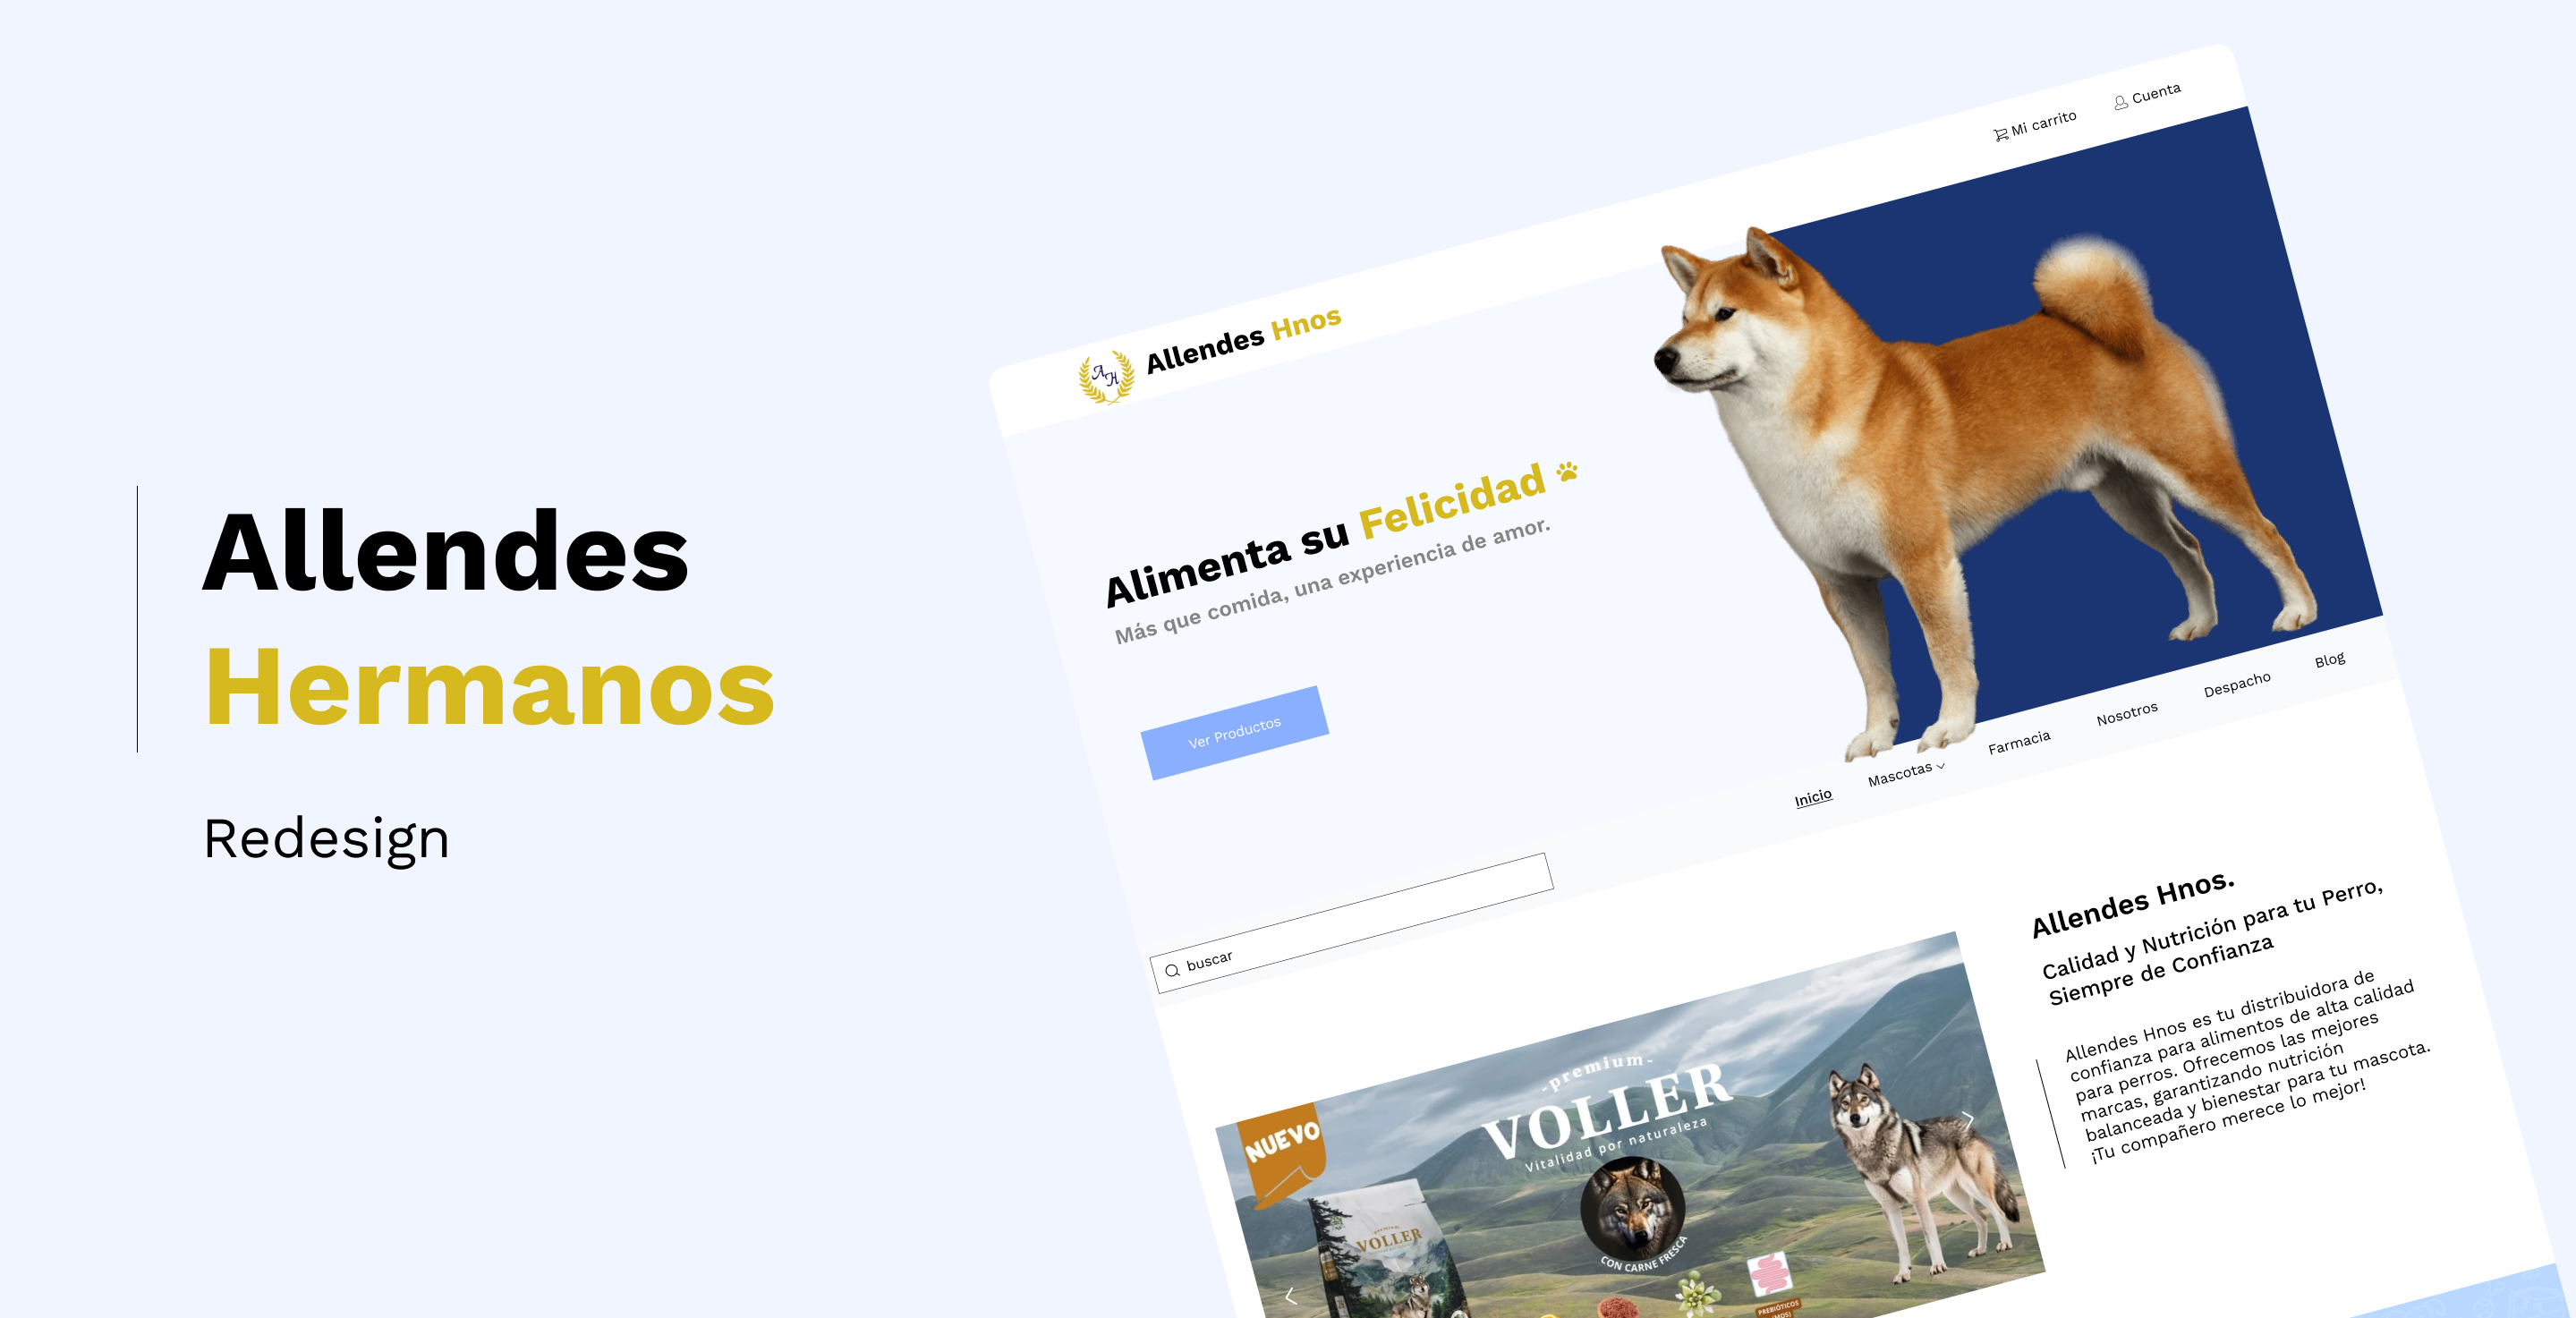
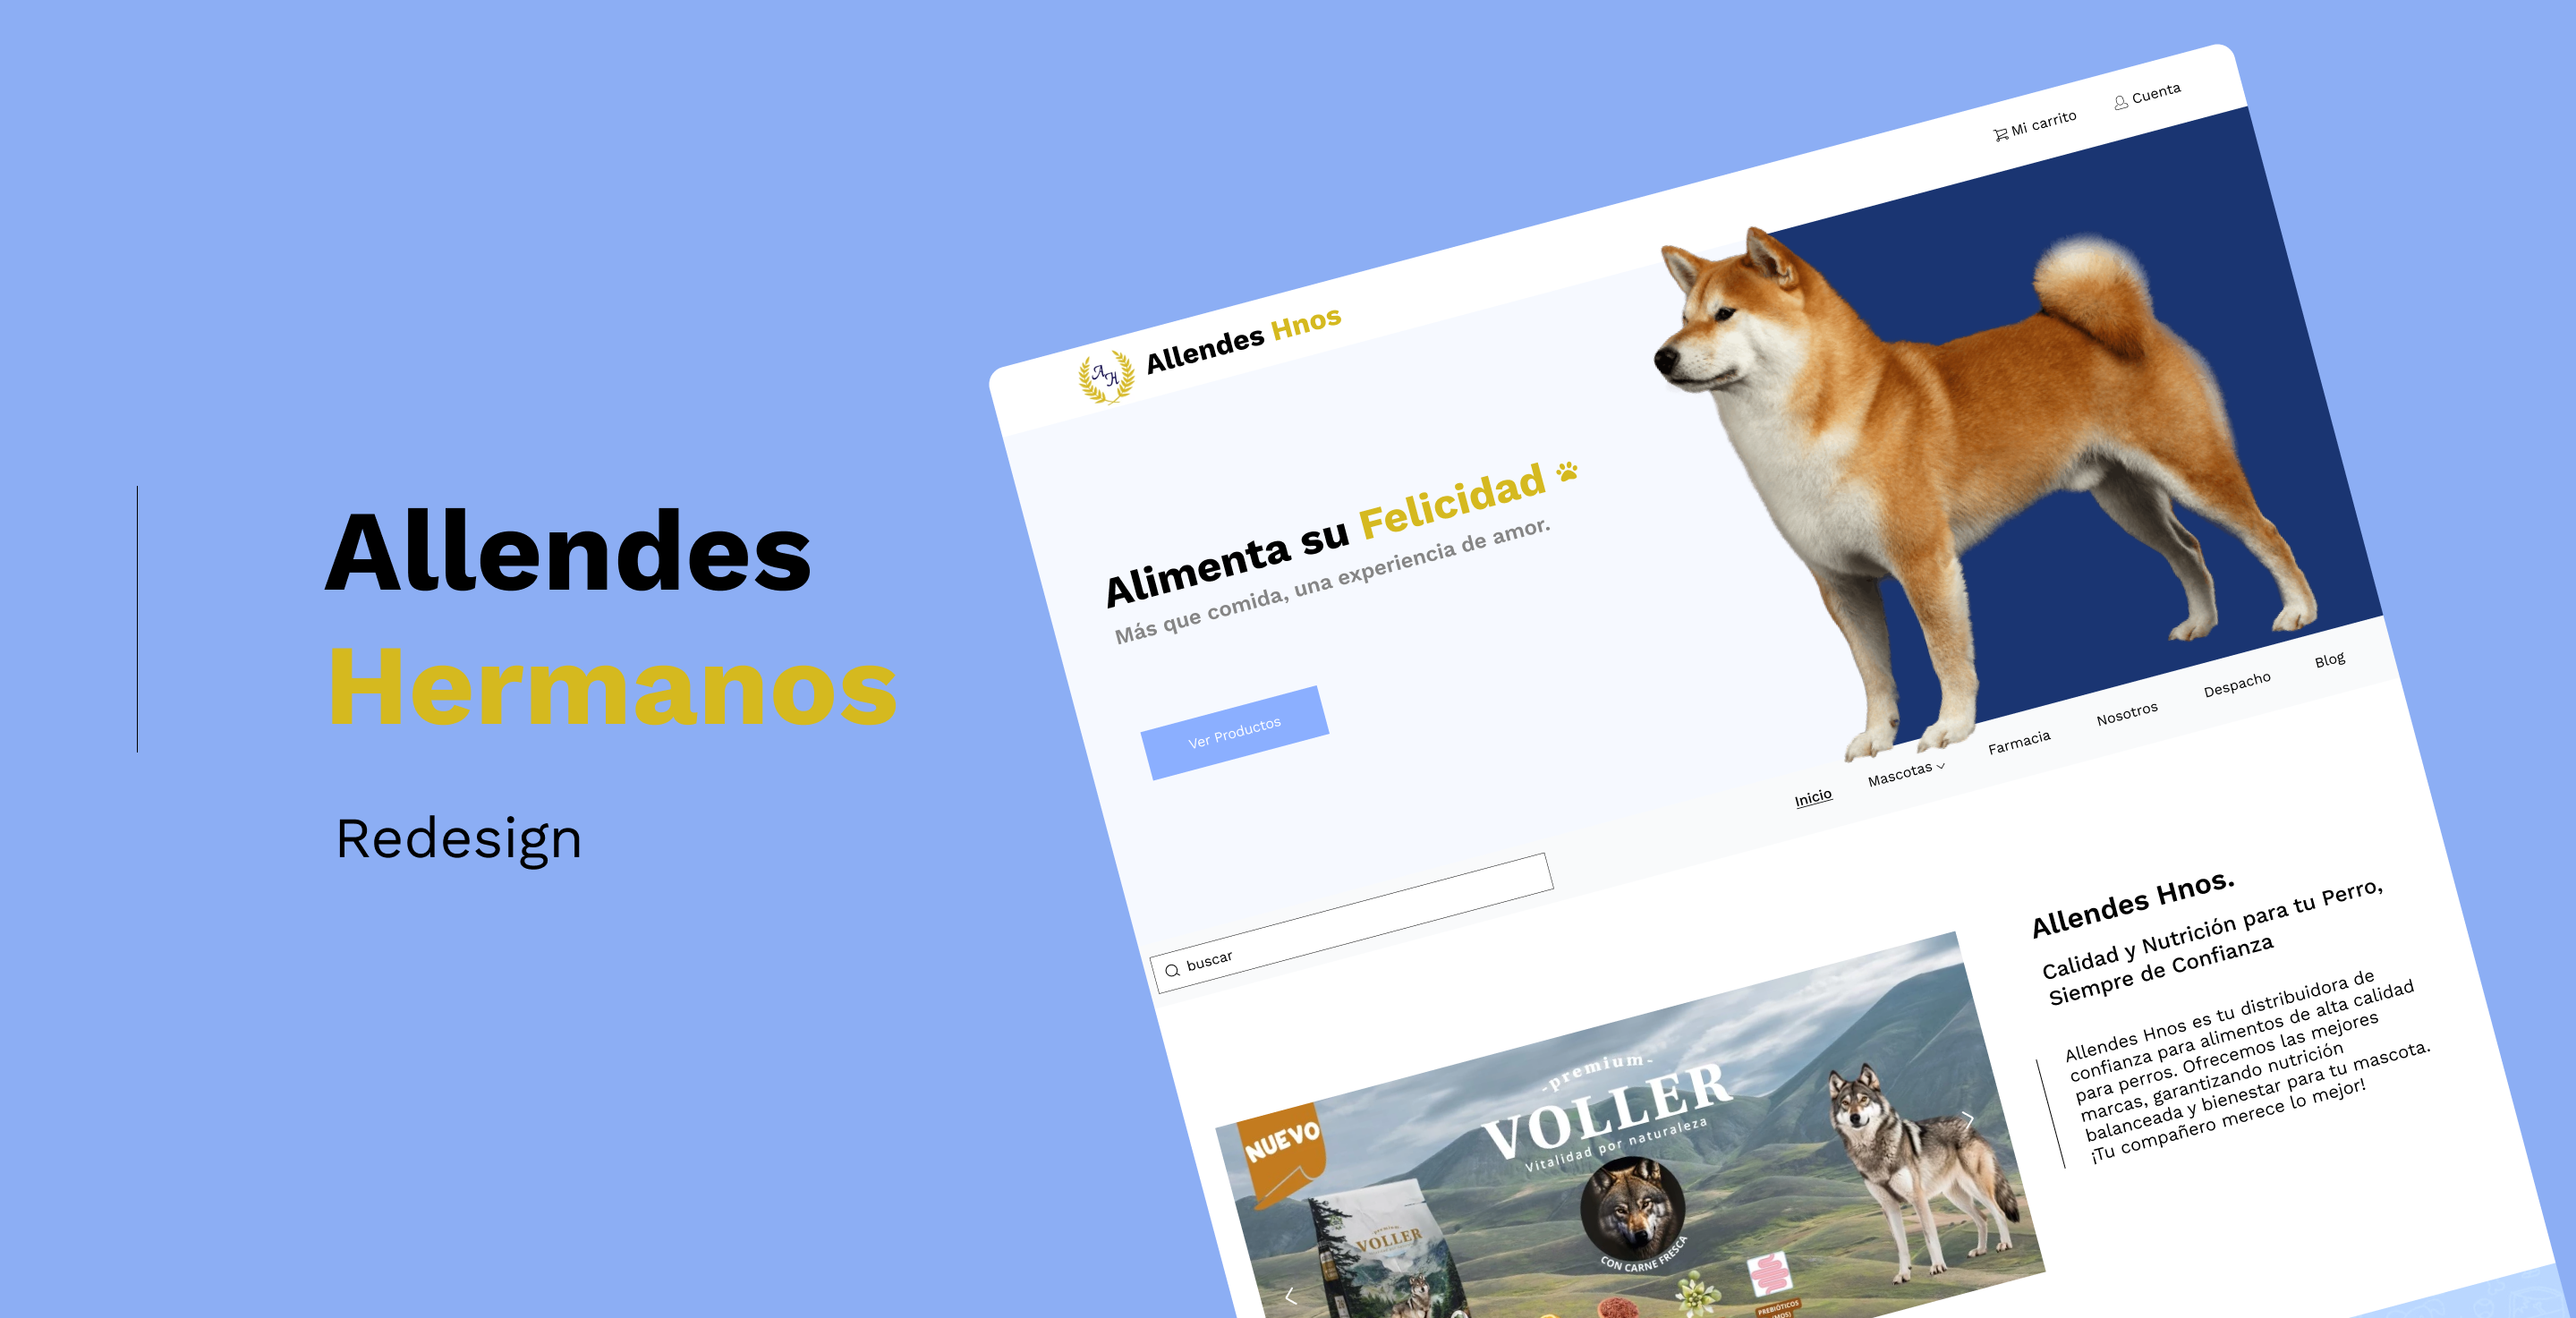
servicios, tarjetas

diff --git a/assets/scss/style.scss b/assets/scss/style.scss
@@ -717,31 +717,87 @@ blockquote {
 }
 
 // *** beneficios / paso a paso ***//
-.pasos-grid {
-    min-height: 300px;
+.pasos-track {
+    display: flex;
+    gap: 18px;
+    min-height: 360px;
 }
 
 .paso-card {
-    aspect-ratio: 4 / 5;
+    flex: 1;
+    cursor: pointer;
+    position: relative;
+    overflow: hidden;
+    border-radius: 3px;
     background: var(--fondo-secundario);
-}
+    display: flex;
+    flex-direction: column;
+    justify-content: center;
+    align-items: center;
+    padding: 32px 24px;
+    transition: flex 0.4s ease-in-out;
 
-// *** testimonios (tarjeta giga) ***//
-.giga-grid {
-    display: block;
-}
+    // estado expandido
+    &.active {
+        flex: 2.4;
+        align-items: flex-start;
+        justify-content: center;
 
-.giga-card {
-    width: 100%;
+        .paso-card-number {
+            display: none;
+        }
 
-    .project-media {
-        aspect-ratio: 21 / 9;
+        .paso-card-content {
+            text-align: left;
+        }
+
+        .paso-card-title,
+        .paso-card-desc {
+            display: block;
+        }
     }
 }
 
+.paso-card-content {
+    width: 100%;
+    text-align: center;
+}
+
+.paso-card-number {
+    font-family: var(--font-titulo);
+    font-weight: 300;
+    font-size: 54px;
+    line-height: 1;
+    color: var(--texto-tarjetas);
+}
+
+.paso-card-title,
+.paso-card-desc {
+    display: none;
+}
+
+.paso-card-title {
+    font-family: var(--font-titulo);
+    font-weight: 500;
+    font-size: 24px;
+    color: var(--texto-tarjetas);
+    margin: 0 0 36px;
+    letter-spacing: 3%;
+    text-align: center;
+}
+
+.paso-card-desc {
+    font-family: var(--font-texto);
+    font-size: 18px;
+    line-height: 1.6;
+    color: var(--texto-tarjetas);
+    margin: 0;
+    text-align: center;
+}
+
+
 // ***************************** BITÁCORA ************************* //
 
-// *** header de bitácora ***//
 .bitacora-header {
     h1 {
         font-size: 48px;
@@ -1239,4 +1295,54 @@ footer {
             grid-row: 3;
         }
     }
+    // *** servicios mobile *** //
+    .pasos-track {
+    flex-direction: column;
+    min-height: auto;
+    gap: 9px;
+
+    .paso-card {
+        flex: none !important;
+        width: 100%;
+        min-height: 120px;
+        padding: 36px 24px;
+        overflow: hidden;
+        transition: min-height .45s ease;
+
+        .paso-card-content {
+            text-align: center;
+        }
+
+        .paso-card-number {
+            display: block;
+        }
+
+        .paso-card-title,
+        .paso-card-desc {
+            opacity: 0;
+            max-height: 0;
+            overflow: hidden;
+            transform: translateY(12px);
+            transition:
+                opacity .35s ease,
+                transform .35s ease,
+                max-height .45s ease;
+        }
+
+        &.active {
+            min-height: 220px;
+
+            .paso-card-number {
+                display: none;
+            }
+
+            .paso-card-title,
+            .paso-card-desc {
+                opacity: 1;
+                max-height: 300px;
+                transform: translateY(0);
+            }
+        }
+    }
+}
 }

diff --git a/assets/css/style.css b/assets/css/style.css
@@ -12715,24 +12715,77 @@ blockquote {
   color: var(--texto-principal);
 }
 
-.pasos-grid {
-  min-height: 300px;
+.pasos-track {
+  display: flex;
+  gap: 18px;
+  min-height: 360px;
 }
 
 .paso-card {
-  aspect-ratio: 4/5;
+  flex: 1;
+  cursor: pointer;
+  position: relative;
+  overflow: hidden;
+  border-radius: 3px;
   background: var(--fondo-secundario);
+  display: flex;
+  flex-direction: column;
+  justify-content: center;
+  align-items: center;
+  padding: 32px 24px;
+  transition: flex 0.4s ease-in-out;
 }
-
-.giga-grid {
+.paso-card.active {
+  flex: 2.4;
+  align-items: flex-start;
+  justify-content: center;
+}
+.paso-card.active .paso-card-number {
+  display: none;
+}
+.paso-card.active .paso-card-content {
+  text-align: left;
+}
+.paso-card.active .paso-card-title,
+.paso-card.active .paso-card-desc {
   display: block;
 }
 
-.giga-card {
+.paso-card-content {
   width: 100%;
+  text-align: center;
 }
-.giga-card .project-media {
-  aspect-ratio: 21/9;
+
+.paso-card-number {
+  font-family: var(--font-titulo);
+  font-weight: 300;
+  font-size: 54px;
+  line-height: 1;
+  color: var(--texto-tarjetas);
+}
+
+.paso-card-title,
+.paso-card-desc {
+  display: none;
+}
+
+.paso-card-title {
+  font-family: var(--font-titulo);
+  font-weight: 500;
+  font-size: 24px;
+  color: var(--texto-tarjetas);
+  margin: 0 0 36px;
+  letter-spacing: 3%;
+  text-align: center;
+}
+
+.paso-card-desc {
+  font-family: var(--font-texto);
+  font-size: 18px;
+  line-height: 1.6;
+  color: var(--texto-tarjetas);
+  margin: 0;
+  text-align: center;
 }
 
 .bitacora-header h1, .bitacora-header .h1 {
@@ -13191,5 +13244,44 @@ footer {
   .proyecto-detalles .detalles-botones {
     grid-column: 1;
     grid-row: 3;
+  }
+  .pasos-track {
+    flex-direction: column;
+    min-height: auto;
+    gap: 9px;
+  }
+  .pasos-track .paso-card {
+    flex: none !important;
+    width: 100%;
+    min-height: 120px;
+    padding: 36px 24px;
+    overflow: hidden;
+    transition: min-height 0.45s ease;
+  }
+  .pasos-track .paso-card .paso-card-content {
+    text-align: center;
+  }
+  .pasos-track .paso-card .paso-card-number {
+    display: block;
+  }
+  .pasos-track .paso-card .paso-card-title,
+  .pasos-track .paso-card .paso-card-desc {
+    opacity: 0;
+    max-height: 0;
+    overflow: hidden;
+    transform: translateY(12px);
+    transition: opacity 0.35s ease, transform 0.35s ease, max-height 0.45s ease;
+  }
+  .pasos-track .paso-card.active {
+    min-height: 220px;
+  }
+  .pasos-track .paso-card.active .paso-card-number {
+    display: none;
+  }
+  .pasos-track .paso-card.active .paso-card-title,
+  .pasos-track .paso-card.active .paso-card-desc {
+    opacity: 1;
+    max-height: 300px;
+    transform: translateY(0);
   }
 }/*# sourceMappingURL=style.css.map */

diff --git a/servicios.html b/servicios.html
@@ -21,7 +21,7 @@
             <ul class="list-unstyled">
                 <li class="mb-4"><a class="logo" href="home.html">ANA CERÓN</a></li>
                 <li class="mb-4"><a href="proyectos.html">PROYECTOS</a></li>
-                <li class="mb-4"><a href="servicios.html" class="active">SERVICIOS</a></li>
+                <li class="mb-4"><a href="servicios.html">SERVICIOS</a></li>
                 <li class="mb-4"><a href="bitacora.html">BITÁCORA</a></li>
             </ul>
         </nav>
@@ -42,8 +42,6 @@
     </header>
 
     <main>
-
-        <!-- HEADER SERVICIOS -->
         <section class="page-header servicios-header">
             <h1>SERVICIOS</h1>
             <h2>¿TIENES UNA IDEA? LA REALIZO POR TI</h2>
@@ -116,23 +114,35 @@
         <!-- BENEFICIOS / PASO A PASO -->
         <section class="section">
             <h2 class="section-title">BENEFICIOS / PASO A PASO</h2>
-            <div class="row g-2 pasos-grid">
+            <div class="pasos-track" id="pasosTrack">
 
-                <article class="col-4 paso-card">
-                    <!-- contenido del paso 01, próximamente -->
+                <article class="paso-card active" data-index="0">
+                    <div class="paso-card-content">
+                        <span class="paso-card-number">01</span>
+                        <h3 class="paso-card-title">01 DESCUBRIMIENTO</h3>
+                        <p class="paso-card-desc">Entiendo tu idea, objetivos y el problema real que necesitas resolver antes de levantar una sola pantalla.</p>
+                    </div>
                 </article>
 
-                <article class="col-4 paso-card">
-                    <!-- contenido del paso 02, próximamente -->
+                <article class="paso-card" data-index="1">
+                    <div class="paso-card-content">
+                        <span class="paso-card-number">02</span>
+                        <h3 class="paso-card-title">02 PRODUCCIÓN</h3>
+                        <p class="paso-card-desc">Aquí es donde el proyecto toma forma. Desarrollo tu sitio, probando cada funcionalidad hasta que todo opere exactamente como fue pensado.</p>
+                    </div>
                 </article>
 
-                <article class="col-4 paso-card">
-                    <!-- contenido del paso 03, próximamente -->
+                <article class="paso-card" data-index="2">
+                    <div class="paso-card-content">
+                        <span class="paso-card-number">03</span>
+                        <h3 class="paso-card-title">03 ENTREGA</h3>
+                        <p class="paso-card-desc">Reviso contigo cada detalle final y dejo el sitio publicado, funcionando y listo para crecer.</p>
+                    </div>
                 </article>
 
             </div>
         </section>
-
+        
         <!-- TESTIMONIOS -->
         <section class="section">
             <h2 class="section-title">TESTIMONIOS</h2>
@@ -158,7 +168,6 @@
         <footer>
             ©2026 | Ana Cerón Novoa
         </footer>
-
     </main>
 
     <script src="assets/js/main.js"></script>

diff --git a/assets/js/main.js b/assets/js/main.js
@@ -226,3 +226,26 @@ document.addEventListener('DOMContentLoaded', () => {
 
     render();
 });
+
+// *** beneficios / paso a paso: tarjetas expandibles ***//
+(function () {
+    const track = document.getElementById('pasosTrack');
+    if (!track) return;
+
+    const cards = track.querySelectorAll('.paso-card');
+    const hoverCapable = window.matchMedia('(hover: hover)').matches;
+
+    function activate(index) {
+        cards.forEach((card, i) => {
+            card.classList.toggle('active', i === index);
+        });
+    }
+
+    cards.forEach((card, i) => {
+        if (hoverCapable) {
+            card.addEventListener('mouseenter', () => activate(i));
+        } else {
+            card.addEventListener('click', () => activate(i));
+        }
+    });
+})();